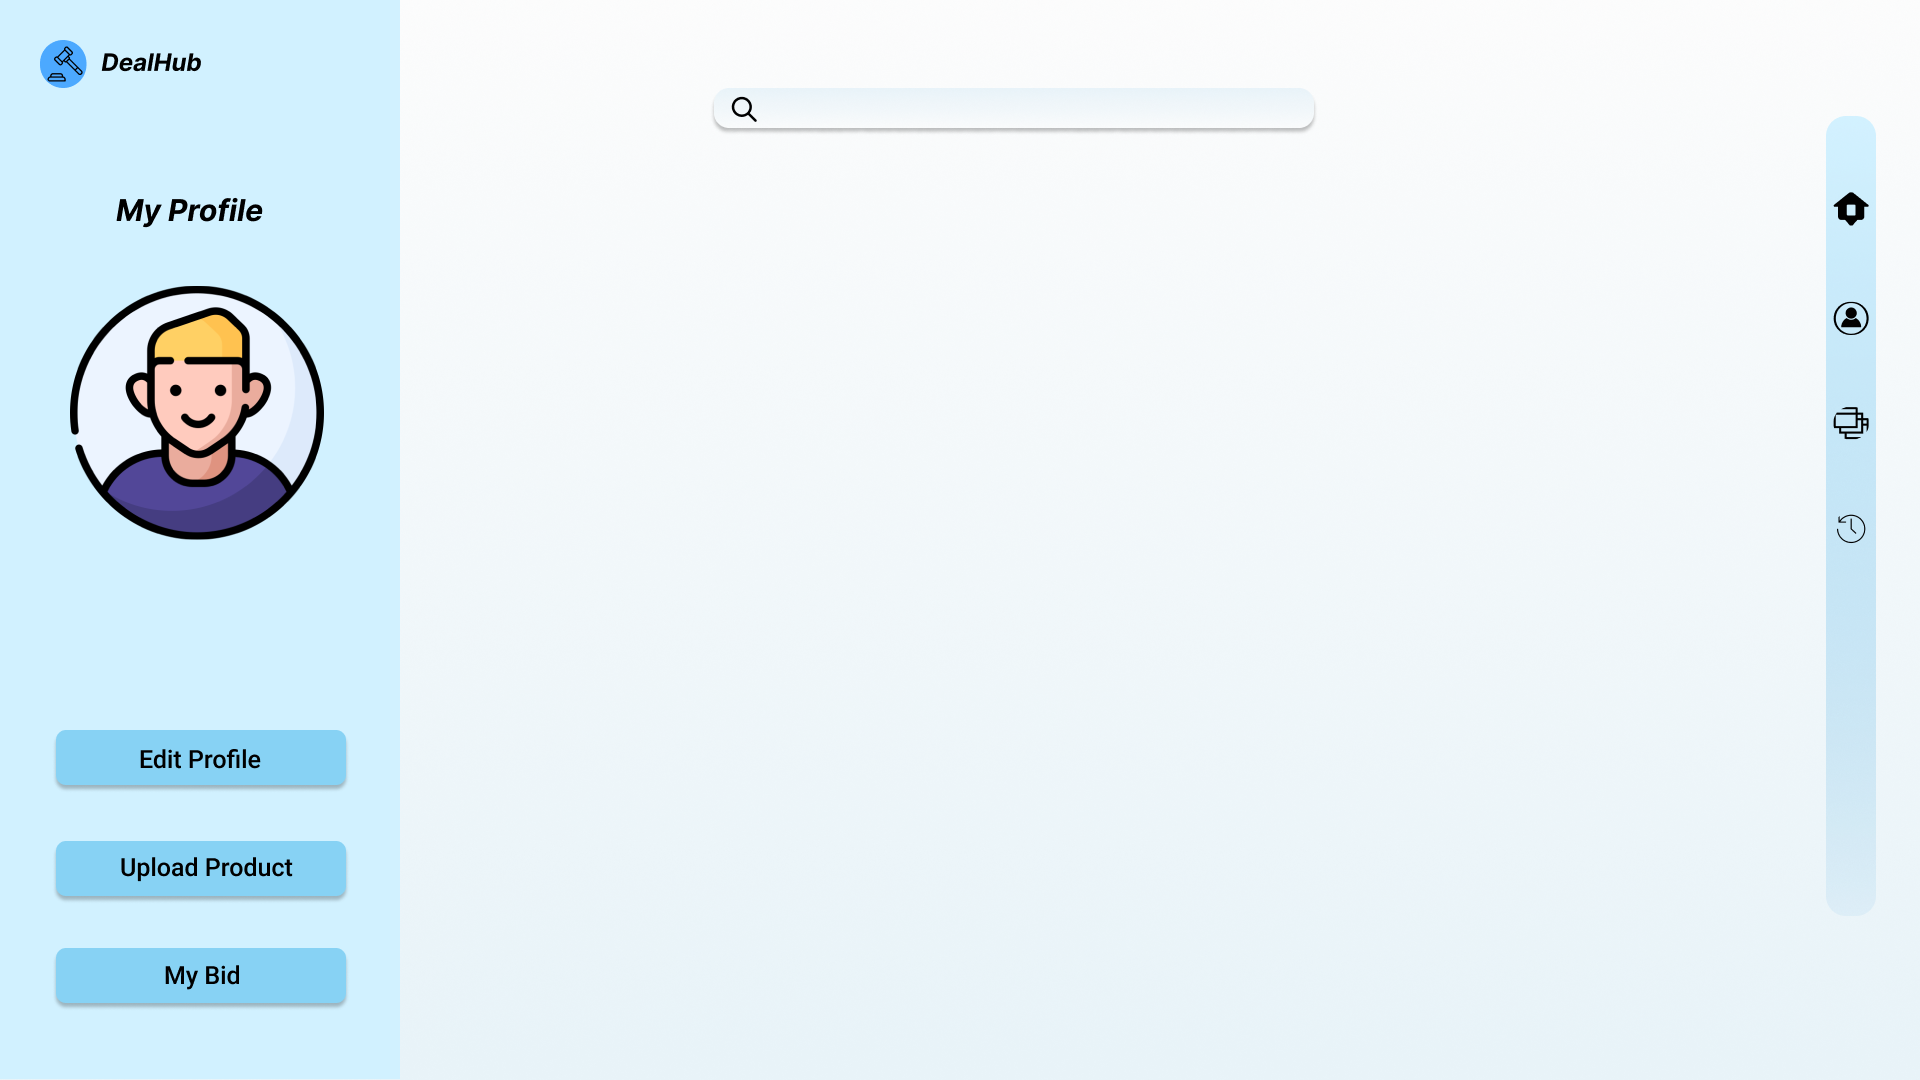
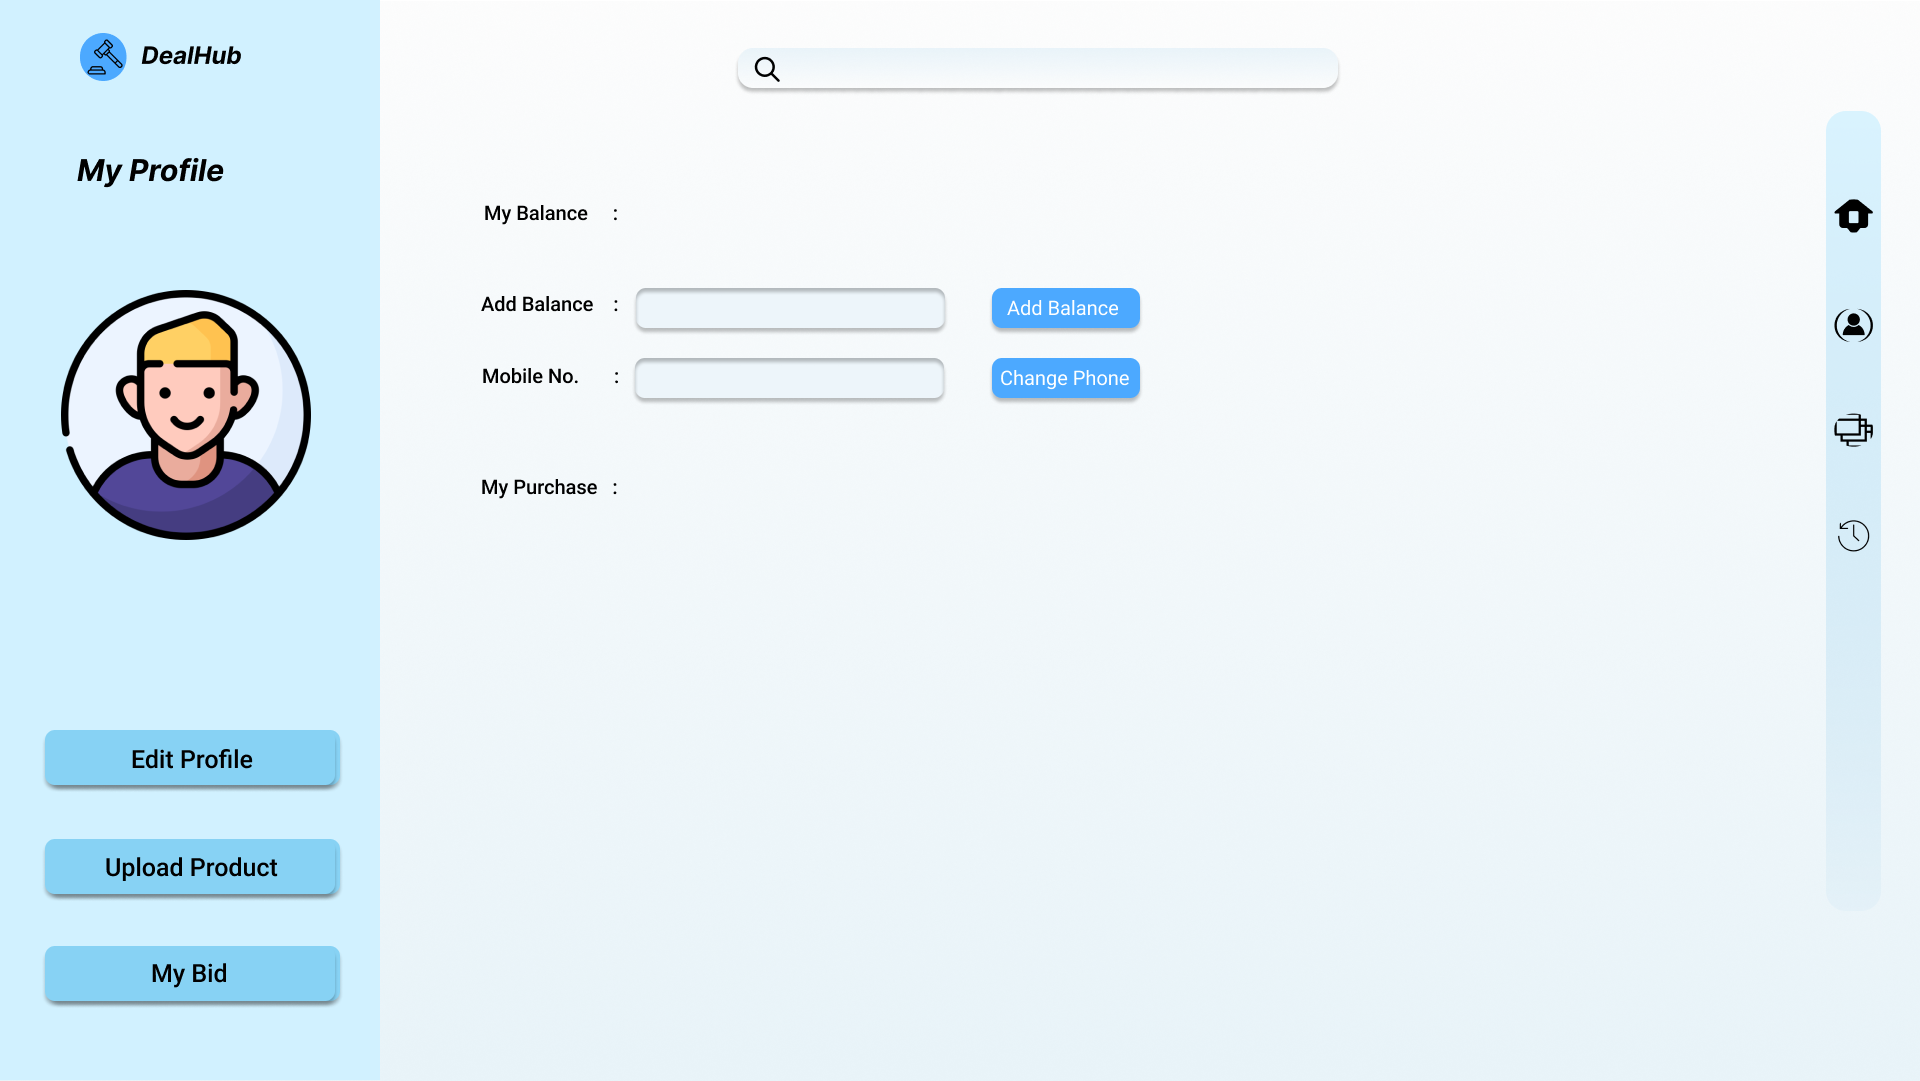
upload products bug fix, bid bug fix

diff --git a/src/main/java/com/dealhub/itemAuctionController.java b/src/main/java/com/dealhub/itemAuctionController.java
@@ -115,30 +115,17 @@ public class itemAuctionController implements Initializable {
 
         try {
 
-            myBid = Integer.parseInt(text);
-            productPriceI = Integer.parseInt(productPrice.trim());
+            _AUserLoginCheck.setMyBidTrack(Integer.parseInt(text));
+            productPriceI = Integer.parseInt(productPrice);
 
-
-
-
-            System.out.println("myBid: " + myBid);
+            System.out.println("myBid: " + _AUserLoginCheck.getMyBidTrack());
             System.out.println("productPriceI: " + productPriceI);
 
-            if (myBid < productPriceI) {
-                setYourBidLabel.setText("You need to bid higher!");
-                System.out.println("you can not");
-            } else {
-                String updateQuery = "UPDATE `uploadproducts` SET `current_bid` = ? WHERE id = 3";
-                PreparedStatement preparedStatement = connection.prepareStatement(updateQuery);
-                preparedStatement.setInt(1, myBid); // Set the value of myBid to the first placeholder
-                int rowsUpdated = preparedStatement.executeUpdate();
-                setYourBidLabel.setText("Bid placed successfully!");
-            }
+
         } catch (NumberFormatException e) {
             setYourBidLabel.setText("Invalid bid input.");
+
             e.printStackTrace();
-        } catch (SQLException e) {
-            throw new RuntimeException(e);
         }
 
 
@@ -165,7 +152,7 @@ public class itemAuctionController implements Initializable {
 
         try {
             Statement statement = connection.createStatement();
-            String sqlQuery = "SELECT * FROM `uploadproducts` WHERE id = 3";
+            String sqlQuery = "SELECT * FROM `uploadproducts` WHERE id = 6";
             ResultSet resultSet = statement.executeQuery(sqlQuery);
 
 
@@ -195,19 +182,24 @@ public class itemAuctionController implements Initializable {
                 productPrice = pPrice;
                 descriptionLabel.setText(pDetails);
 
-                if(myBid == 0) {
+
+                productPriceI = Integer.parseInt(productPrice);
+                myBid = Integer.parseInt(currPrice);
+                System.out.println(productPriceI);
+
+                if(_AUserLoginCheck.getMyBidTrack() == 0) {
                     System.out.println(" ");
-                }else if (myBid < productPriceI) {
+                }else if (_AUserLoginCheck.getMyBidTrack() < productPriceI || _AUserLoginCheck.getMyBidTrack() < myBid) {
                     setYourBidLabel.setText("You need to bid higher!");
                     System.out.println("you can not");
 
-
                 } else {
-                    String updateQuery = "UPDATE `uploadproducts` SET `current_bid` = ? WHERE id = 3";
+                    String updateQuery = "UPDATE `uploadproducts` SET `current_bid` = ? WHERE id = 6";
                     PreparedStatement preparedStatement = connection.prepareStatement(updateQuery);
-                    preparedStatement.setInt(1, myBid); // Set the value of myBid to the first placeholder
+                    preparedStatement.setInt(1, _AUserLoginCheck.getMyBidTrack()); // Set the value of myBid to the first placeholder
                     int rowsUpdated = preparedStatement.executeUpdate();
                     setYourBidLabel.setText("Bid placed successfully!");
+
                 }
 
                 System.out.println(myBid);
@@ -238,8 +230,6 @@ public class itemAuctionController implements Initializable {
         } catch (SQLException e) {
             e.printStackTrace();
         }
-
-
 
 
         try {

diff --git a/src/main/java/com/dealhub/uploadProductController.java b/src/main/java/com/dealhub/uploadProductController.java
@@ -9,6 +9,8 @@ package com.dealhub;
         import java.nio.file.Paths;
         import java.nio.file.StandardCopyOption;
         import java.sql.*;
+        import java.time.LocalDateTime;
+        import java.time.temporal.ChronoUnit;
         import java.util.Objects;
         import java.util.ResourceBundle;
 
@@ -142,8 +144,13 @@ public class uploadProductController {
             String pCategory = category.getText();
             String pCName = companyName.getText();
             String pCost = productCost.getText();
-            String eTime = endHour.getText();
+            String sTime = endHour.getText();
+            long eTime = Long.parseLong(sTime);
             String pDetails = productDetails.getText();
+
+            LocalDateTime currentTimestamp = LocalDateTime.now();
+            LocalDateTime endTimestamp = currentTimestamp.plus(eTime, ChronoUnit.MINUTES);
+            Timestamp sqlEndTimestamp = Timestamp.valueOf(endTimestamp);
 
             try {
                 connection = DriverManager.getConnection(jdbcUrl, username, password);
@@ -153,7 +160,7 @@ public class uploadProductController {
             }
 
             try {
-                String sqlQuery = "INSERT INTO `uploadproducts`(`uploader_id`, `product_name`, `category`, `product_cost`, `company_name`, `end_time`, `product_details`, `product_image`) VALUES (?, ?, ?, ?, ?, ?, ?, ?)";
+                String sqlQuery = "INSERT INTO `uploadproducts`(`uploader_id`, `product_name`, `category`, `product_cost`, `current_bid`, `company_name`, `end_time`, `auction_status`, `pending_status`, `product_details`, `product_image`) VALUES (?, ?, ?, ?, ?, ?, ?, ?, ?, ?, ?)";
 
                 assert connection != null;
                 PreparedStatement preparedStatement = connection.prepareStatement(sqlQuery);
@@ -162,10 +169,13 @@ public class uploadProductController {
                 preparedStatement.setString(2, pName);
                 preparedStatement.setString(3, pCategory);
                 preparedStatement.setString(4, pCost);
-                preparedStatement.setString(5, pCName);
-                preparedStatement.setString(6, eTime);
-                preparedStatement.setString(7, pDetails);
-                preparedStatement.setString(8, fileNameWithoutSpaces);
+                preparedStatement.setString(5, "0");  // Set current_bid to initial value
+                preparedStatement.setString(6, pCName);
+                preparedStatement.setTimestamp(7, sqlEndTimestamp);
+                preparedStatement.setString(8, "yes");  // Set auction_status to 1 (assuming active)
+                preparedStatement.setString(9, "yes");  // Set pending_status to 0 (assuming not pending)
+                preparedStatement.setString(10, pDetails);
+                preparedStatement.setString(11, fileNameWithoutSpaces);
 
                 int rowsAffected = preparedStatement.executeUpdate();
                 System.out.println(rowsAffected + " row(s) inserted.");

diff --git a/src/main/java/com/dealhub/myProfileController.java b/src/main/java/com/dealhub/myProfileController.java
@@ -7,6 +7,7 @@ import javafx.fxml.Initializable;
 import javafx.scene.Parent;
 import javafx.scene.Scene;
 import javafx.scene.control.Button;
+import javafx.scene.control.Label;
 import javafx.scene.control.TextField;
 import javafx.stage.Stage;
 
@@ -45,6 +46,20 @@ public class myProfileController implements Initializable{
     @FXML
     private Button uploadProductsBtn;
 
+    @FXML
+    private Button addBalanceBtn;
+
+    @FXML
+    private TextField addBalanceTF;
+
+    @FXML
+    private Button changePhoneBtn;
+
+    @FXML
+    private TextField mobileNoTF;
+
+    @FXML
+    private Label muBalanceLabel;
     @FXML
     public void goToEditProfile() throws Exception{
         FXMLLoader secondLoader = new FXMLLoader(getClass().getResource("editProfile.fxml"));

diff --git a/src/main/java/com/dealhub/_AUserLoginCheck.java b/src/main/java/com/dealhub/_AUserLoginCheck.java
@@ -4,6 +4,8 @@ class _AUserLoginCheck {
     private static String uLName;
     private static String uLId ;
 
+    private static int myBidTrack;
+
 
     public static String getuLName() {
         return uLName;
@@ -19,5 +21,13 @@ class _AUserLoginCheck {
 
     public static void setuLId(String uLId) {
         _AUserLoginCheck.uLId = uLId;
+    }
+
+    public static int getMyBidTrack() {
+        return myBidTrack;
+    }
+
+    public static void setMyBidTrack(int myBidTrack) {
+        _AUserLoginCheck.myBidTrack = myBidTrack;
     }
 }
